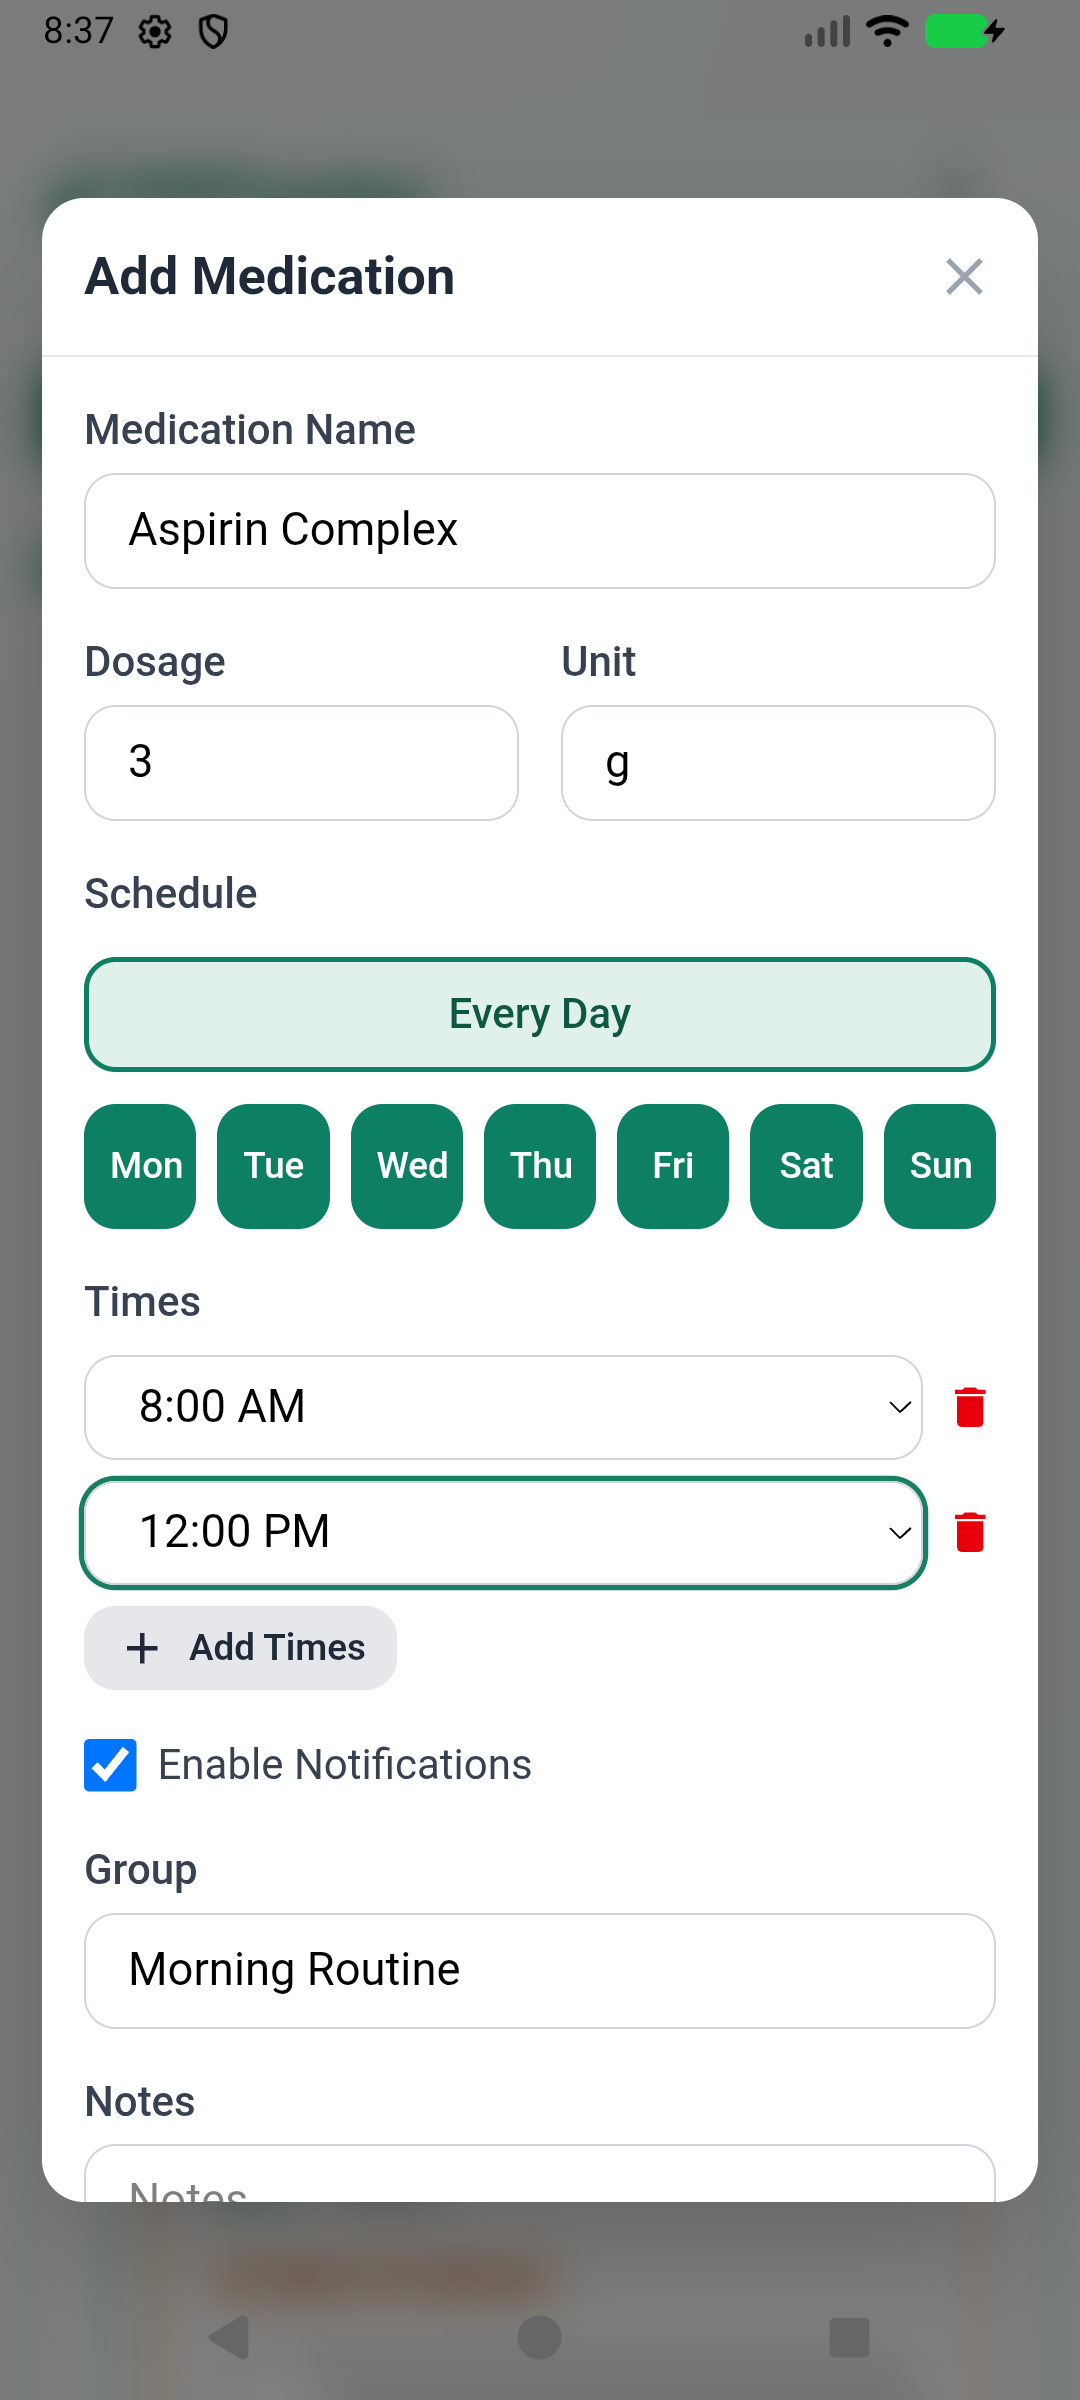
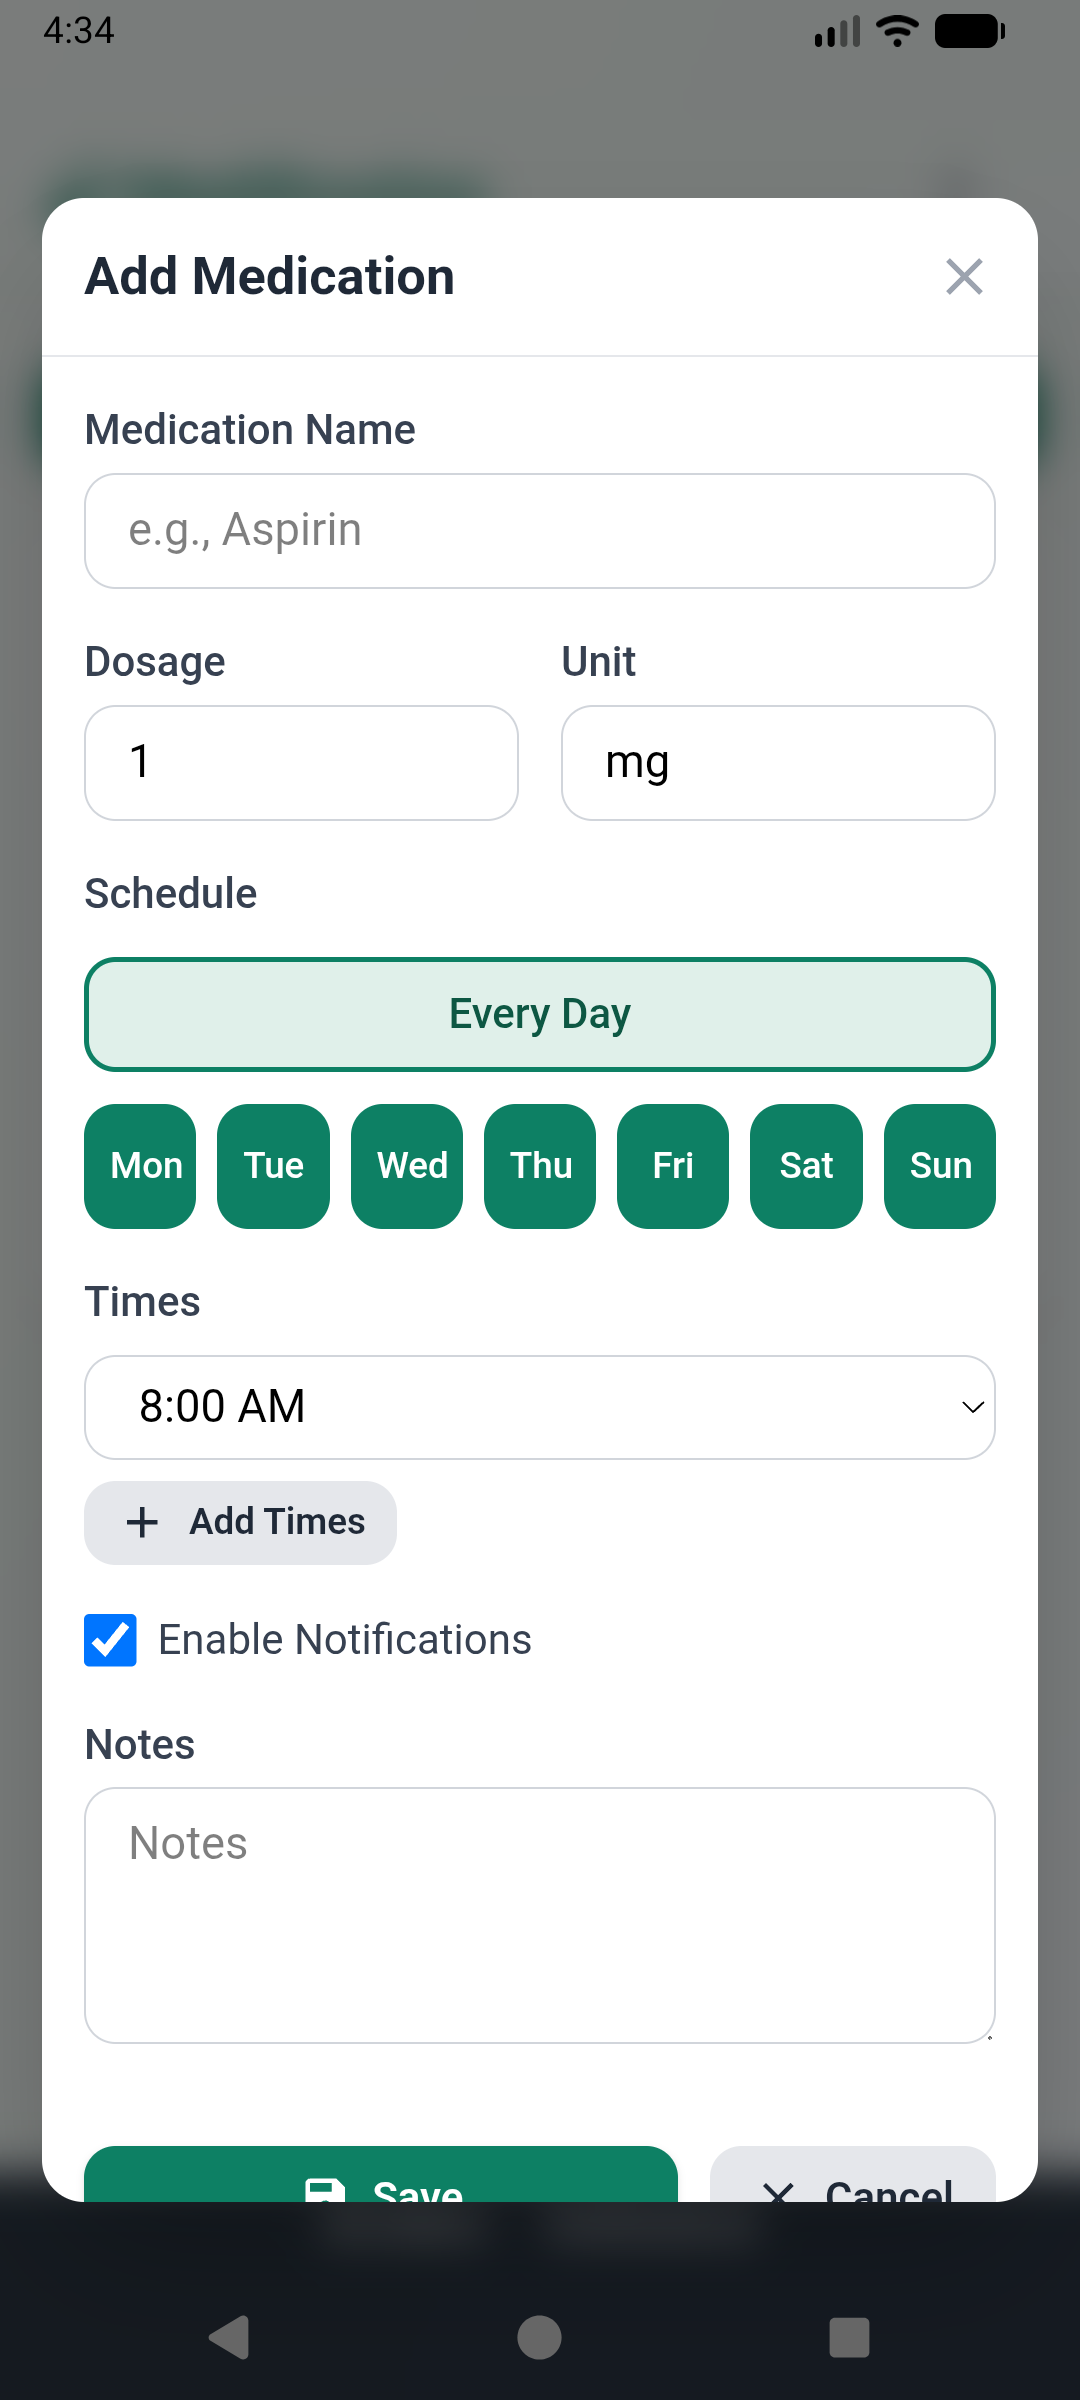
docs: refresh android screenshots

diff --git a/README.md b/README.md
@@ -36,7 +36,7 @@ Eine aktuelle Test-APK liegt unter:
 Medikamenten-Listing (Beispieldaten):
 ![Startseite](screenshots/android-home.png)
 
-Neues Medikament anlegen (ausgefuelltes Formular):
+Neues Medikament anlegen (Formular):
 ![Medikament anlegen](screenshots/android-create-medication.png)
 
 ## Entwicklung (Web)
